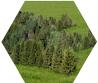
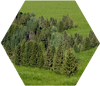
update with hex tile images

diff --git a/server/public/javascripts/open_catan/renderer.js b/server/public/javascripts/open_catan/renderer.js
@@ -213,14 +213,14 @@ OpenCatan.Board.Hex = function(board, json){
       case 'Forest':   context.fillStyle = "rgb( 34, 139,  34)"; img = OpenCatan.Board.Hex.Image.Forest; break;
       case 'Plain':    context.fillStyle = "rgb(  0, 255, 127)"; break;
       case 'Field':    context.fillStyle = "rgb(255, 223,   0)"; break;
-      case 'Mountain': context.fillStyle = "rgb(112, 128, 144)"; break;
+      case 'Mountain': context.fillStyle = "rgb(112, 128, 144)"; img = OpenCatan.Board.Hex.Image.Mountain; break;
       case 'Hill':     context.fillStyle = "rgb(233, 116,  81)"; break;
       case 'Water':    context.fillStyle = "rgb(  0, 127, 255)"; break;
       case 'Mine':     context.fillStyle = "rgb( 47,  79,  79)"; break;
       default:         context.fillStyle = "rgb(255, 255, 255)"; break;
     }
     if (img) {
-      context.drawImage(img, x - 1, y - 1, 102, 88); 
+      context.drawImage(img, x, y, 100, 86); 
     } else {
       context.beginPath();
       var vertices = self.define_vertices(x, y, canvas);
@@ -284,7 +284,8 @@ OpenCatan.Board.Hex = function(board, json){
   };
 };
 OpenCatan.Board.Hex.Image = {
-  'Forest': "/images/forest_tile.png"
+  'Forest': "/images/forest_tile.png",
+  'Mountain': "/images/mountain_tile.png"
 };
 for (var i in OpenCatan.Board.Hex.Image) {
   var img_location = OpenCatan.Board.Hex.Image[i];
